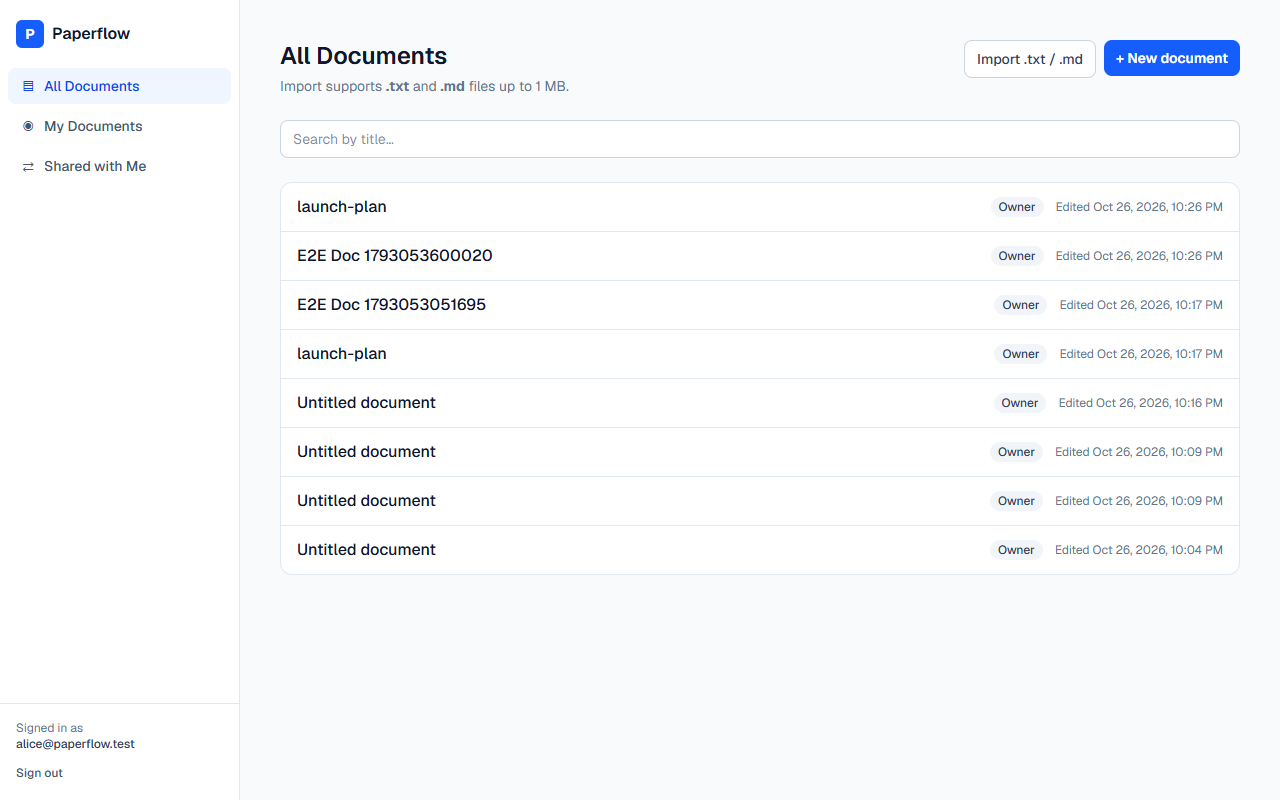
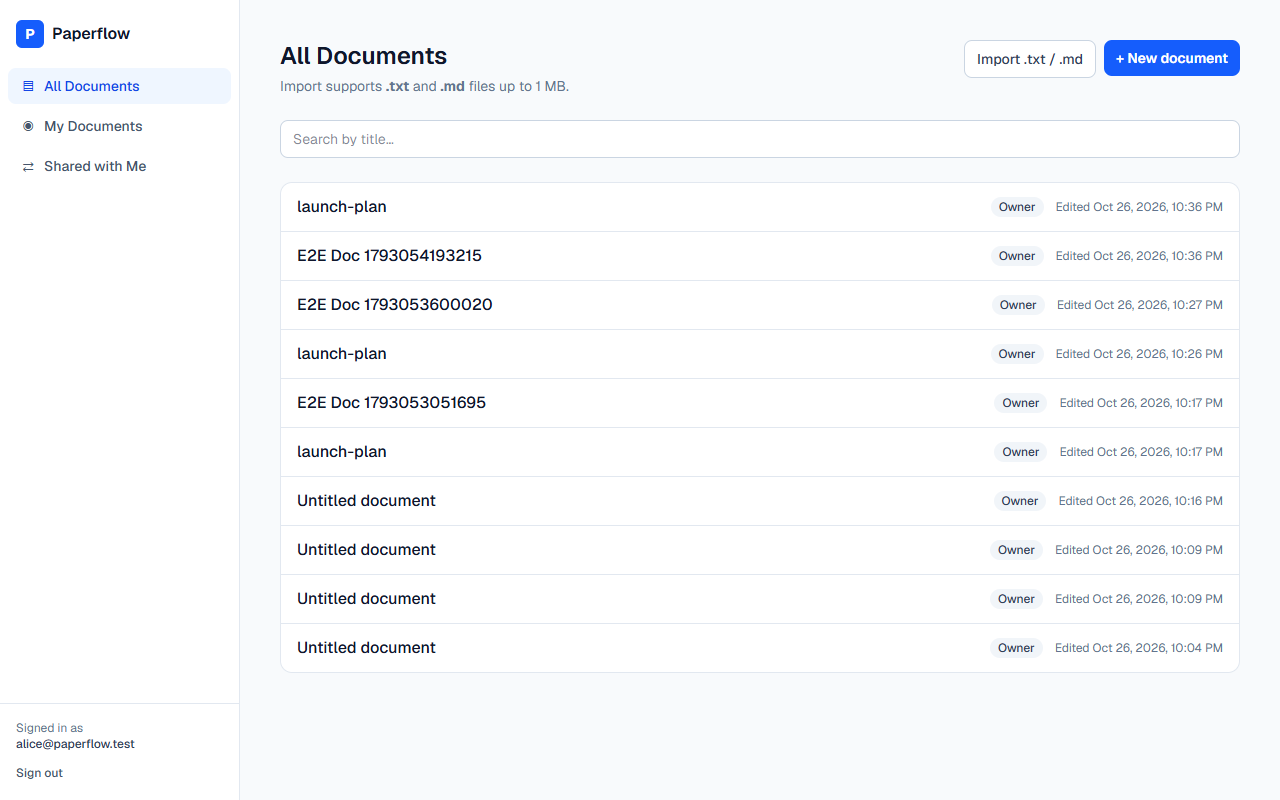
Add SUBMISSION.md, video placeholder, production E2E results and screenshots

diff --git a/SUBMISSION.md b/SUBMISSION.md
@@ -1,0 +1,66 @@
+# Submission: Paperflow
+
+## Links
+
+- **Live app:** https://paperflow-five-psi.vercel.app
+- **Source:** https://github.com/izainpasha/paperflow
+- **Walkthrough video:** see [VIDEO_URL.txt](VIDEO_URL.txt)
+
+## Test accounts
+
+These are demo-only accounts on reserved `.test` addresses. No real inboxes, no other data.
+
+| Role in the demo | Email | Password |
+|---|---|---|
+| Owner | `alice@paperflow.test` | `Paperflow-Demo-2026` |
+| Recipient | `bob@paperflow.test` | `Paperflow-Demo-2026` |
+
+You can also create your own account on the sign-in page. Email confirmation is disabled, so you're signed in immediately.
+
+**Suggested 3-minute check:**
+1. Sign in as Alice → **+ New document** → type a title, use the toolbar (heading, bold, underline, lists) → wait for *All changes saved* → reload the page; formatting persists.
+2. **Import .txt / .md** on the dashboard with any Markdown file → a new formatted document opens.
+3. In a document, **Share** → `bob@paperflow.test` → *Can view* (try an unknown email to see the error).
+4. In a private window, sign in as Bob → **Shared with Me** → open the document (read-only banner, no toolbar). Paste the URL of one of Alice's *unshared* documents → *Document not available*.
+5. As Alice, switch Bob to *Can edit*; Bob can now edit and Alice sees the change after a reload.
+
+## What's included
+
+| Requirement | Status |
+|---|---|
+| Create, rename, edit, save, reopen documents | ✅ Autosave with status, retry on failure, unsaved-changes warning |
+| Bold, italic, underline, headings (H1–H3), bulleted and numbered lists | ✅ Stored as Tiptap JSON; persists across reloads |
+| Import `.txt` and `.md` into a new editable document | ✅ Type, size (1 MB), and empty-content validation with clear errors. **No `.docx`.** |
+| Owner shares with another authenticated user by email | ✅ Viewer / editor permissions; change and revoke |
+| Owned vs. shared clearly distinguished | ✅ Sidebar views (All / My / Shared with Me) + badges + owner email |
+| Enforced on the server/database | ✅ Supabase RLS + column grants + `SECURITY DEFINER` share function; verified by live tests as a second user |
+| Supabase Auth + Postgres persistence | ✅ Email/password; no service-role key in the app |
+| Tests | ✅ 29 unit/component tests + 7 live RLS integration tests |
+| Docs | ✅ README, ARCHITECTURE, AI_WORKFLOW, this file, screenshots in `docs/screenshots/` |
+| Deployed | ✅ Vercel (production) |
+
+## Verification performed
+
+- `npm run lint`, `npm run typecheck`, `npm test` (29 passing), `npm run build`: all clean.
+- `npm run test:integration`: **7/7** live RLS tests passing against the production Supabase project.
+- Browser end-to-end run (25 checks) against the local production build: **25/25**.
+- The same E2E run against the deployed URL: **26/26** (adds a check that the recipient sees upgraded editor access).
+
+## Known limitations
+
+- **No real-time collaboration.** Saves are last-write-wins; two people editing the same document at once can overwrite each other. Editors see others' changes after a reload.
+- **Sharing only works with existing accounts.** No invitation emails. The "no account uses that email" message reveals whether an email is registered to any signed-in user (accepted trade-off; would add rate limiting).
+- **Search covers titles only**, not content.
+- **Import is client-side conversion** of `.txt`/`.md` only. Markdown images and raw HTML are intentionally dropped.
+- **No ownership transfer, folders, version history, or comments.**
+- **Supabase free tier**: the project pauses after a week of inactivity, and the built-in mailer is rate-limited. Email confirmation is off for this demo.
+- **The browser E2E script is not committed** as a CI test. It was run manually with `playwright-core` + Edge; the committed automated tests are Vitest.
+
+## Next steps (another 2–4 hours)
+
+1. Real-time co-editing with Yjs + Tiptap Collaboration over Supabase Realtime, plus presence avatars. This would replace last-write-wins.
+2. An optimistic-concurrency check on save (`updated_at` precondition) as an interim conflict guard.
+3. Commit the Playwright E2E suite and run it plus the RLS suite in GitHub Actions against a Supabase branch database.
+4. Invitations for non-users (pending shares that resolve on sign-up), plus rate limiting on share lookups.
+5. Full-text search over content (generated `tsvector` + GIN index), and `.docx` import via `mammoth` with the same allow-list sanitisation.
+6. Version history (snapshot table) and ownership transfer.

diff --git a/AI_WORKFLOW.md b/AI_WORKFLOW.md
@@ -38,7 +38,7 @@ The project uses very recent majors (Next.js 16.4, React 19.3, Tiptap 3.32, @sup
 | `npm run test:integration` (live Supabase, two real users, public key only) | 7/7 passing |
 | `npm run build` | passing |
 | Browser E2E (Edge via playwright-core, script kept outside the repo) against the local production build | 25/25 checks |
-| Same E2E against the deployed Vercel URL | see SUBMISSION.md for the final run |
+| Same E2E against the deployed Vercel URL | 26/26 checks (an early run failed one step because the test waited a fixed 1.5 s for a permission change; it now waits for the recipient to see "Can edit") |
 
 The E2E checks covered: route guard; wrong-password error; create; rename; H1/bold/underline/bullets; autosave status; persistence after reload; unknown-email and duplicate share handling; `.pdf` rejection; `.md` import preserving structure; title search; recipient sees "Shared with Me" with owner and badge; viewer is read-only with no toolbar or share button; recipient gets "Document not available" for a private doc's URL; upgrading to editor lets the recipient's edit reach the owner; no horizontal overflow at 390px. Screenshots from these runs are in `docs/screenshots/`.
 
